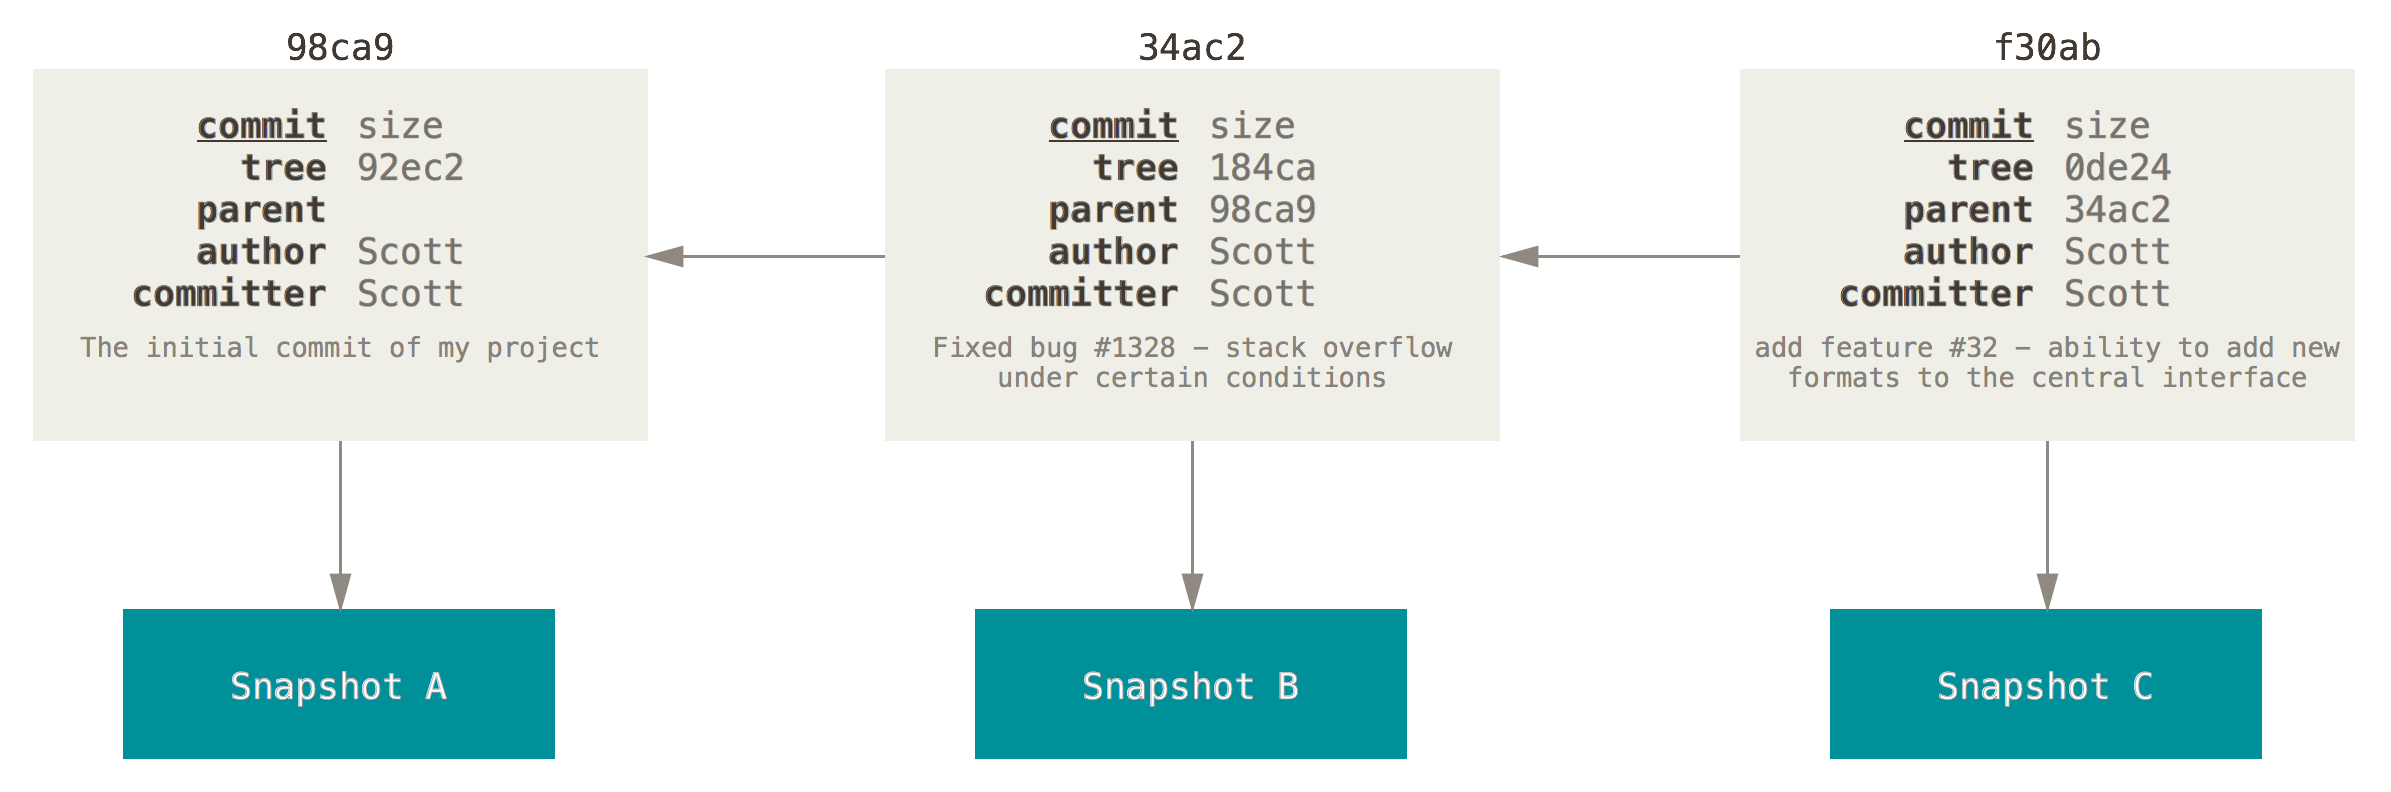
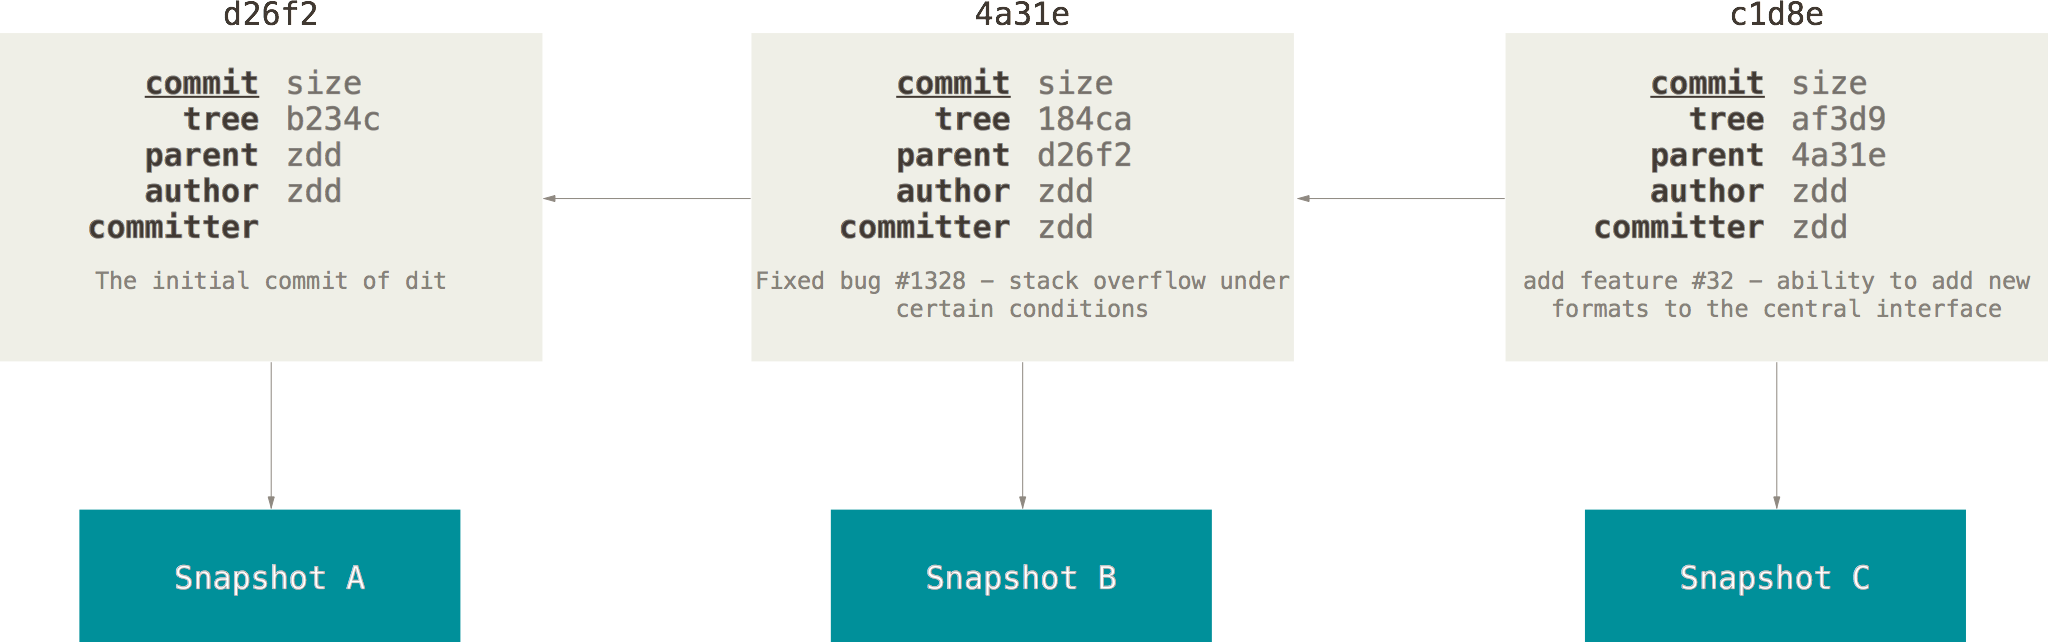
Update dit blog
1. Add repo link;
2. Fix illustration bug.

diff --git a/_posts/2015-08-01-dit-design.md b/_posts/2015-08-01-dit-design.md
@@ -77,8 +77,8 @@ Git 保存数据的方式
 为了说的更加形象，我们假设现在有一个工作目录，里面包含了三个将要被暂存和提交的文件。 暂存操作会为每一个文件计算校验和(使用 SHA-1 哈希算法)，然后会把当前版本的文件快照保存到 Git 仓库中（Git 使用 blob 对象来保存它们），最终将校验和加入到暂存区域等待提交：
 
 ```sh
-$ git add README test.rb LICENSE
-$ git commit -m 'initial commit of my project'
+$ git add README blob.go LICENSE
+$ git commit -m 'The initial commit of dit'
 ```
 
 当使用 git commit 进行提交操作时，Git 会先计算每一个子目录（本例中只有项目根目录）的校验和，然后在 Git 仓库中这些校验和保存为树对象。 随后，Git 便会创建一个提交对象，它除了包含上面提到的那些信息外，还包含指向这个树对象（项目根目录）的指针。如此一来，Git 就可以在需要的时候重现此次保存的快照。

diff --git a/_posts/2015-07-31-why-i-make-dit.md b/_posts/2015-07-31-why-i-make-dit.md
@@ -25,7 +25,7 @@ tags: "dit git"
 Dit
 ---
 
-对，接下来我会模仿 Git 实现一个类似的工具 Dit ，来打发无聊的业余时间。我已经为它想好了 logo，大家感受一下：
+对，接下来我会模仿 Git 实现一个类似的工具 [Dit](https://github.com/zddhub/dit) ，来打发无聊的业余时间。我已经为它想好了 logo，大家感受一下：😄
 ![dit logo]({{ post.img | replace: '..', site.url }}/asserts/dit_logo.png)
 
 基于以下这几点：

diff --git a/_posts/2015-08-05-dit-struct.md b/_posts/2015-08-05-dit-struct.md
@@ -66,4 +66,6 @@ $ tree -a
 Dit 基础类型
 -----------
 
-Dit 的基础类型有三种，blob，tree 和 commit。blob 管理文件，tree 管理目录，commit 管理每次提交。为了统一，抽象出一个公共类 object 。存储基本信息。
+Dit 的基础类型有四种，blob，tree，commit 和 tag。blob 管理文件，tree 管理目录，commit 管理每次提交。tag 设置标签。为了统一，抽象出一个公共类 object，存储基本信息。
+
+### blob
